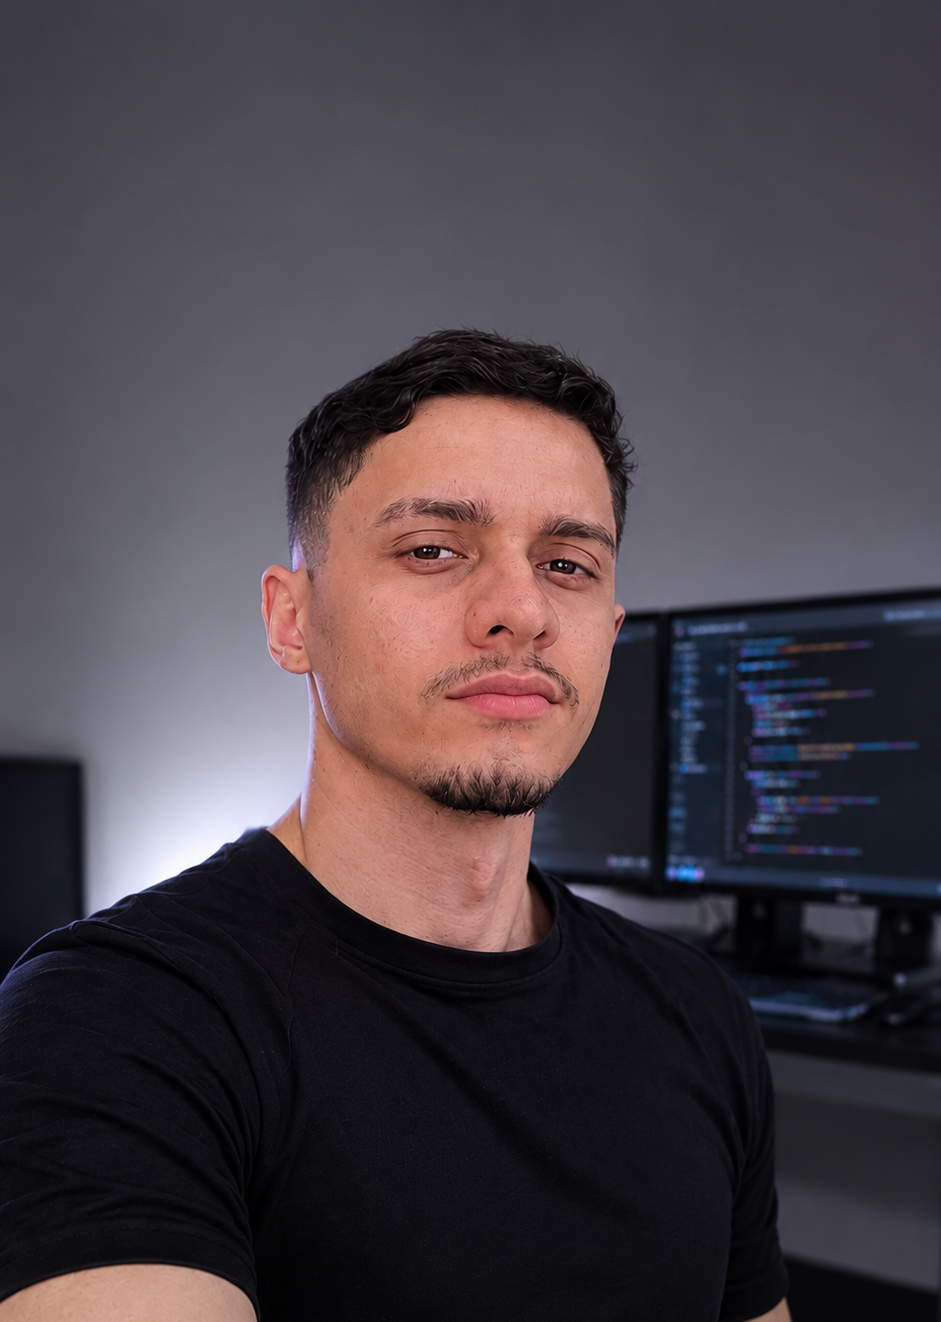
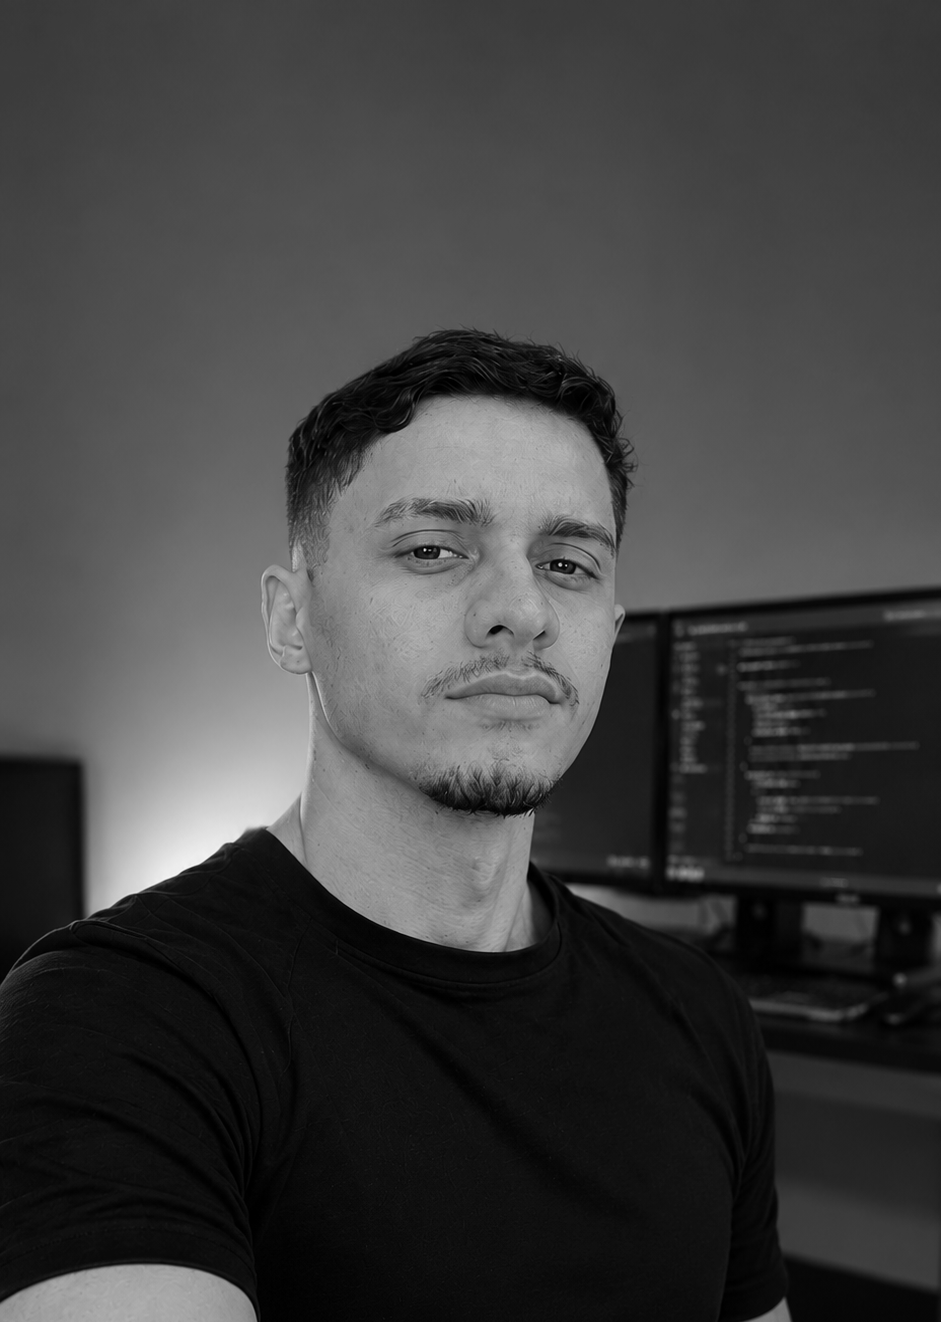
novas fotos

diff --git a/portfólio.css b/portfólio.css
@@ -60,7 +60,7 @@ main {
 }
 
 h2.titulo {
-    color: rgb(17, 32, 32);
+    color: rgb(86, 116, 116);
     font-size: 38px;
     text-align: center;
 }
